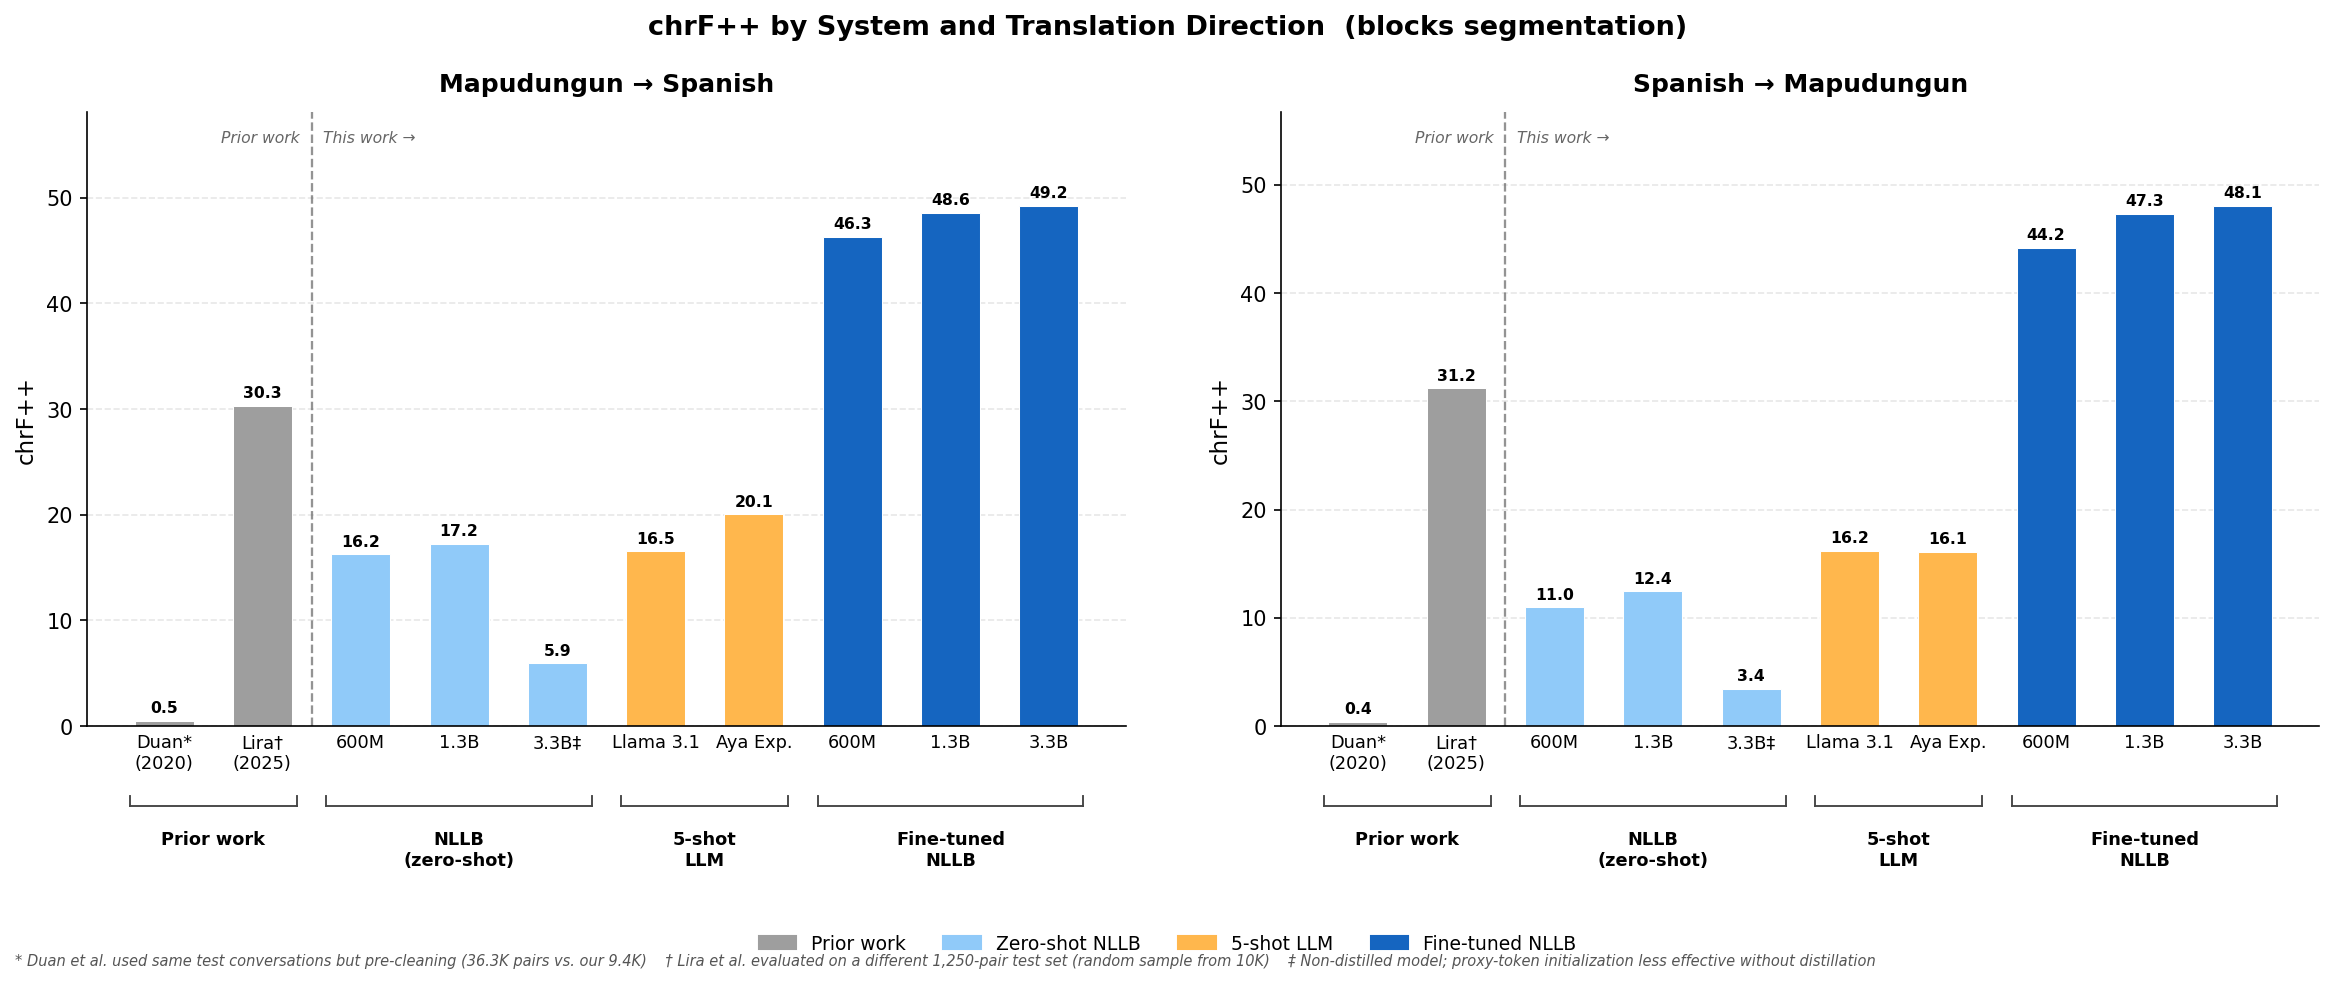
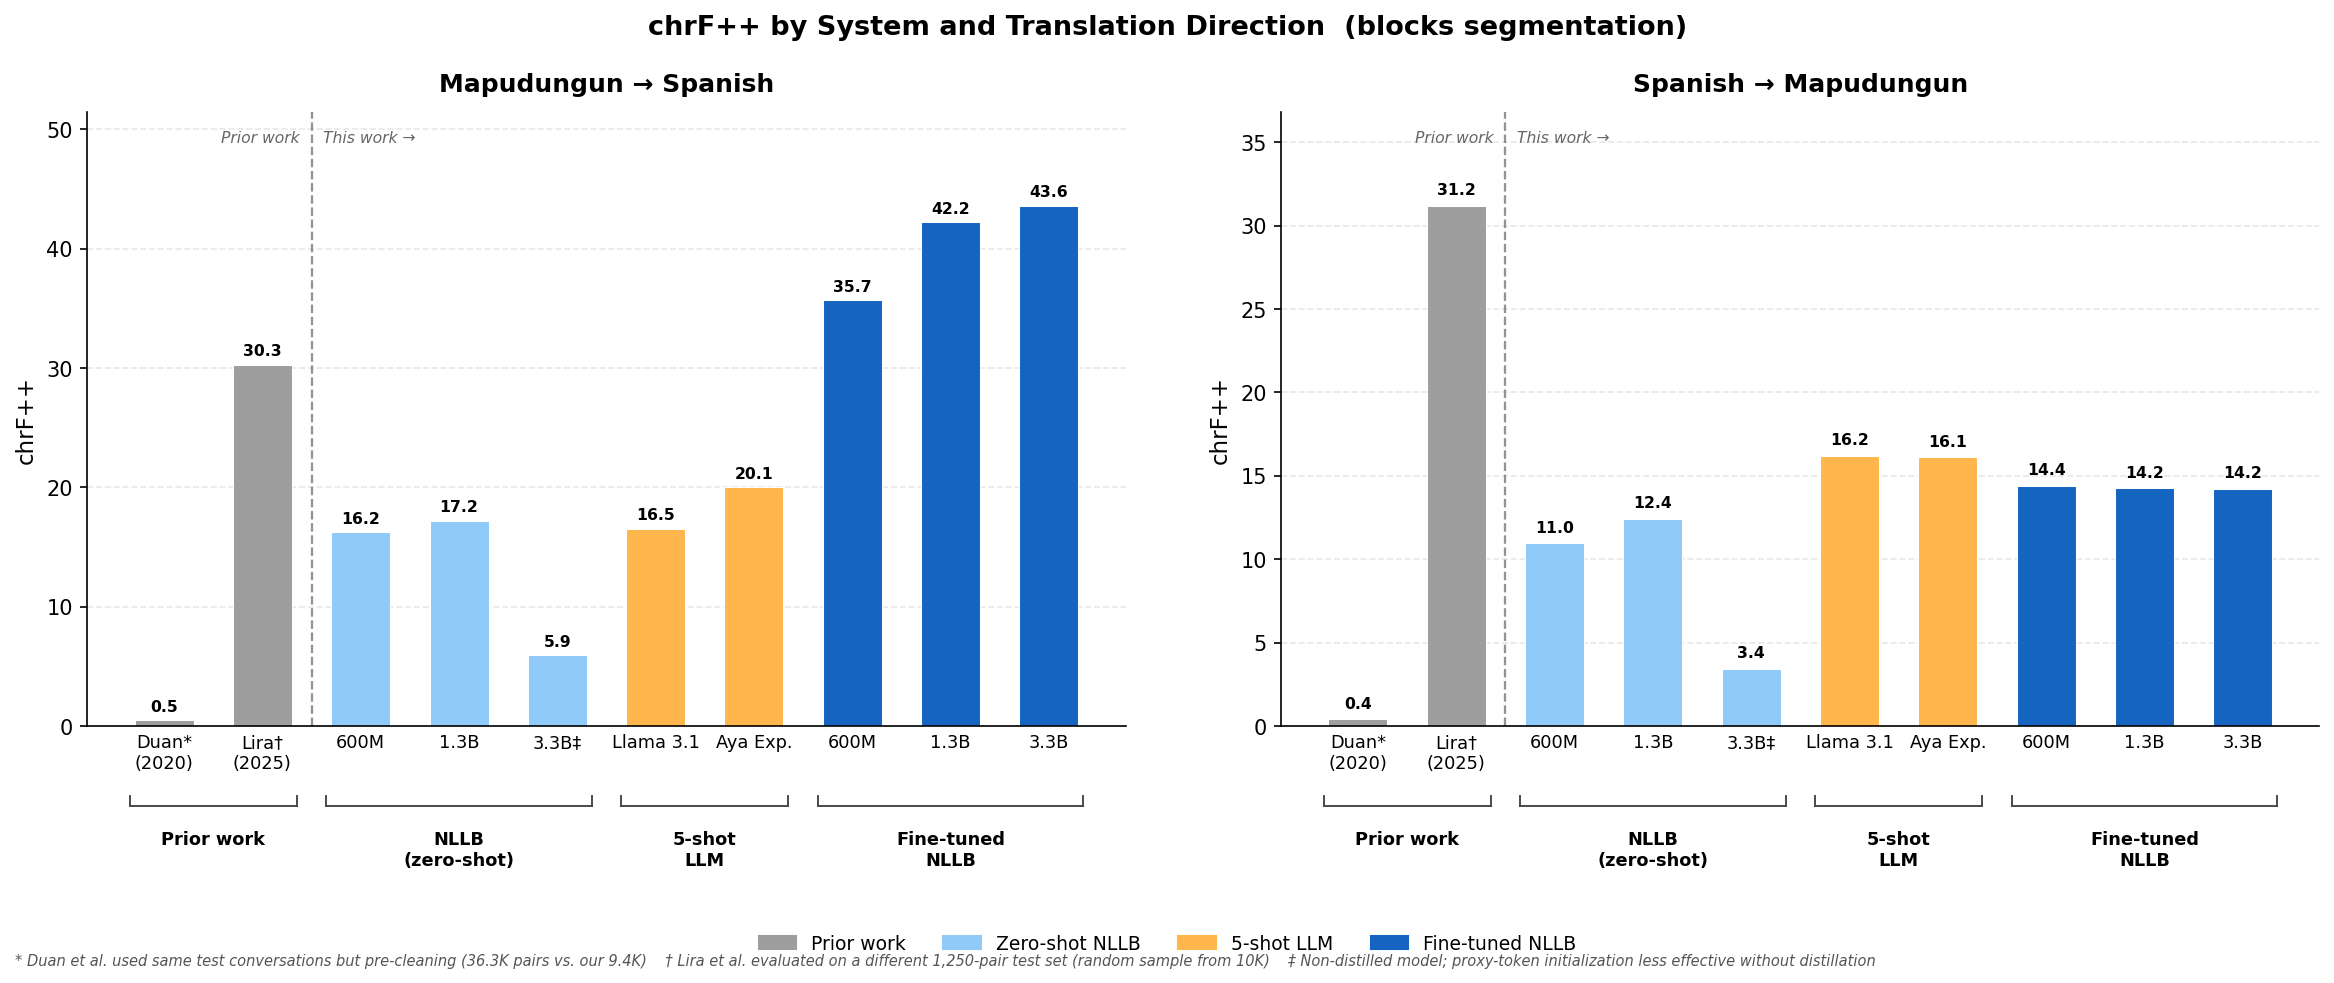
Fix es→arn data direction bug; add morfessor predict support; fix comet scoring
Critical bug: load_split() always loaded src.txt (arn) as source and tgt.txt
(es) as target regardless of --src/--tgt args. For es→arn runs this trained
the model on arn→es with wrong language codes, producing 14.22 chrF++ instead
of a real Spanish→Mapudungun result. Fix swaps the files when src=="es".

- finetune_nllb.py: add src param to load_split(); swap src.txt/tgt.txt for es→arn
- predict_test.py: add --morfessor flag; arn→es reads pre-segmented src, es→arn
  desegments output; add arn-es-morfessor and es-arn-morfessor TEST_DATA configs
- comet_score.py: align with predict_test.py output (*_preds.txt / *_results.json);
  read src/ref/pred from per-sentence JSON; write *_comet.json summaries; drop --data-dir
- comet_score.slurm: update RESULTS_DIR to predictions/; drop --data-dir arg
- predict_test.slurm: add MORFESSOR env var support
- plot_results.py: update fine-tuned numbers to corrected test-set values

Retraining jobs submitted: 10723296 (600M es→arn), 10723297 (1.3B es→arn),
10723298 (3.3B es→arn), 10723299 (1.3B es→arn morfessor)
Morfessor arn→es predict: 10723302
COMET scoring: 10723307

diff --git a/scripts/eval/comet_score.py b/scripts/eval/comet_score.py
@@ -35,7 +35,6 @@ logger = logging.getLogger(__name__)
 def parse_args():
     parser = argparse.ArgumentParser()
     parser.add_argument("--results-dir", required=True)
-    parser.add_argument("--data-dir", required=True)
     COMET_CKPT = (
         "/home/it238/groups/grp_ladle/nobackup/autodelete/comet_model/"
         "models--Unbabel--wmt22-comet-da/snapshots/"
@@ -47,20 +46,13 @@ def parse_args():
     return parser.parse_args()
 
 
-def load_test_refs(data_dir, approach, src, tgt):
-    """Load source and reference (target) test sentences."""
-    base = Path(data_dir) / approach / "cleaned" / "test" / "cleaned"
-    src_lines = (base / "src.txt").read_text(encoding="utf-8").splitlines()
-    tgt_lines = (base / "tgt.txt").read_text(encoding="utf-8").splitlines()
-    return src_lines, tgt_lines
-
 
 def find_prediction_files(results_dir):
-    """Find all *_predictions.txt files and their paired .json files."""
+    """Find all *_preds.txt files and their paired _results.json files."""
     results_dir = Path(results_dir)
     pairs = []
-    for pred_file in sorted(results_dir.rglob("*_predictions.txt")):
-        json_file = pred_file.with_name(pred_file.name.replace("_predictions.txt", ".json"))
+    for pred_file in sorted(results_dir.rglob("*_preds.txt")):
+        json_file = pred_file.with_name(pred_file.name.replace("_preds.txt", "_results.json"))
         if json_file.exists():
             pairs.append((json_file, pred_file))
     return pairs
@@ -82,54 +74,47 @@ def main():
 
     all_results = []
 
+    # Derive a summary JSON path alongside each results file
     for json_file, pred_file in pairs:
-        meta = json.loads(json_file.read_text())
+        run_name = pred_file.stem.replace("_preds", "")
+        summary_file = pred_file.parent / f"{run_name}_comet.json"
 
         # Skip if already scored
-        if "comet" in meta:
-            logger.info(f"Already scored: {json_file.name} (comet={meta['comet']})")
-            all_results.append(meta)
+        if summary_file.exists():
+            summary = json.loads(summary_file.read_text())
+            logger.info(f"Already scored: {run_name} (comet={summary['comet']})")
+            all_results.append(summary)
             continue
 
-        approach = meta.get("approach", "lines")
-        src = meta.get("src", "arn")
-        tgt = meta.get("tgt", "es")
-
-        try:
-            src_lines, ref_lines = load_test_refs(args.data_dir, approach, src, tgt)
-        except Exception as e:
-            logger.warning(f"Could not load refs for {json_file.name}: {e}")
-            continue
-
-        predictions = pred_file.read_text(encoding="utf-8").splitlines()
-
-        if len(predictions) != len(src_lines):
-            logger.warning(
-                f"{pred_file.name}: {len(predictions)} preds vs {len(src_lines)} refs — skipping"
-            )
-            continue
+        # Load per-sentence results written by predict_test.py (list of dicts)
+        sentences = json.loads(json_file.read_text())
+        src_lines = [s["src"] for s in sentences]
+        ref_lines  = [s["ref"] for s in sentences]
+        predictions = [s["pred"] for s in sentences]
 
         data = [
             {"src": s, "mt": p, "ref": r}
             for s, p, r in zip(src_lines, predictions, ref_lines)
         ]
 
-        logger.info(f"Scoring {json_file.name} ({len(data):,} sentences)...")
+        logger.info(f"Scoring {run_name} ({len(data):,} sentences)...")
         output = comet_model.predict(data, batch_size=args.batch_size, gpus=args.gpus)
         comet_score = round(output.system_score, 4)
 
-        meta["comet"] = comet_score
-        json_file.write_text(json.dumps(meta, indent=2))
-        logger.info(f"  COMET = {comet_score}")
-        all_results.append(meta)
+        corpus_chrf = round(
+            sum(s.get("chrf", 0) for s in sentences) / max(len(sentences), 1), 2
+        )
+        summary = {"run": run_name, "n": len(sentences), "chrf": corpus_chrf, "comet": comet_score}
+        summary_file.write_text(json.dumps(summary, indent=2))
+        logger.info(f"  COMET = {comet_score}  chrF = {corpus_chrf}")
+        all_results.append(summary)
 
     # Summary table
-    print("\n" + "="*80)
-    print(f"{'File':<55} {'chrF':>6} {'BLEU':>6} {'COMET':>7}")
-    print("="*80)
-    for m in sorted(all_results, key=lambda x: (x.get("src",""), x.get("approach",""), str(x.get("model","")))):
-        name = f"{m.get('model','?').split('/')[-1]} {m.get('approach','?')} {m.get('src','?')}→{m.get('tgt','?')}"
-        print(f"{name:<55} {m.get('chrf',0):>6.2f} {m.get('bleu',0):>6.2f} {m.get('comet',0):>7.4f}")
+    print("\n" + "="*60)
+    print(f"{'Run':<45} {'chrF':>6} {'COMET':>7}")
+    print("="*60)
+    for m in sorted(all_results, key=lambda x: x.get("run", "")):
+        print(f"{m.get('run','?'):<45} {m.get('chrf',0):>6.2f} {m.get('comet',0):>7.4f}")
 
 
 if __name__ == "__main__":

diff --git a/scripts/eval/predict_test.py b/scripts/eval/predict_test.py
@@ -3,8 +3,9 @@
 Run fine-tuned NLLB model on the full test set and save predictions.
 Computes per-sentence chrF++ and reports the distribution.
 Usage:
-  python predict_test.py --direction es-arn [--model-path /path/to/model]
   python predict_test.py --direction arn-es [--model-path /path/to/model]
+  python predict_test.py --direction es-arn [--model-path /path/to/model]
+  python predict_test.py --direction arn-es --morfessor [--model-path /path/to/morfessor/model]
 """
 
 import argparse
@@ -16,10 +17,12 @@ from transformers import NllbTokenizer, AutoModelForSeq2SeqLM
 from sacrebleu.metrics import CHRF
 
 BASE_TOKENIZER = "/home/it238/.cache/huggingface/hub/models--facebook--nllb-200-3.3B/snapshots/1a07f7d195896b2114afcb79b7b57ab512e7b43e"
+MORFESSOR_MODEL = "/home/it238/nobackup/autodelete/mapudungun/morfessor_model.bin"
 DEFAULT_MODELS = {
     "arn-es": "/home/it238/nobackup/autodelete/mapudungun/models/nllb-200-3.3B-blocks-arn-es/best",
     "es-arn": "/home/it238/nobackup/autodelete/mapudungun/models/nllb-200-3.3B-blocks-es-arn/best",
 }
+# src = text fed to model; ref = reference for scoring
 TEST_DATA = {
     "arn-es": {
         "src": "/home/it238/nobackup/autodelete/mapudungun/data-processed/blocks/cleaned/test/cleaned/src.txt",
@@ -33,9 +36,27 @@ TEST_DATA = {
         "src_lang": "spa_Latn",
         "tgt_lang": "arn_Latn",
     },
+    # Morfessor arn→es: segment the Mapudungun test inputs before feeding to model.
+    # Score generated Spanish against Spanish references (unaffected by segmentation).
+    "arn-es-morfessor": {
+        "src": "/home/it238/nobackup/autodelete/mapudungun/data-processed/blocks/morfessor/test/src.txt",
+        "ref": "/home/it238/nobackup/autodelete/mapudungun/data-processed/blocks/cleaned/test/cleaned/tgt.txt",
+        "src_lang": "arn_Latn",
+        "tgt_lang": "spa_Latn",
+        "desegment_output": False,
+    },
+    # Morfessor es→arn: feed clean Spanish, desegment Mapudungun output before scoring.
+    "es-arn-morfessor": {
+        "src": "/home/it238/nobackup/autodelete/mapudungun/data-processed/blocks/cleaned/test/cleaned/tgt.txt",
+        "ref": "/home/it238/nobackup/autodelete/mapudungun/data-processed/blocks/cleaned/test/cleaned/src.txt",
+        "src_lang": "spa_Latn",
+        "tgt_lang": "arn_Latn",
+        "desegment_output": True,
+    },
 }
 OUT_DIR = Path("/home/it238/nobackup/autodelete/mapudungun/predictions")
 LANG_CODE_RE = re.compile(r"^[a-z]{2,3}_[A-Z][a-z]{3,}\s*")
+DESEG_RE = re.compile(r"@@ ?")
 BATCH_SIZE = 16
 
 
@@ -58,20 +79,26 @@ def translate_batch(model, tokenizer, texts, src_lang, tgt_id, device):
 def main():
     parser = argparse.ArgumentParser()
     parser.add_argument("--direction", choices=["arn-es", "es-arn"], required=True)
+    parser.add_argument("--morfessor", action="store_true",
+                        help="Use morfessor test config (segmented arn→es input or desegmented es→arn output)")
     parser.add_argument("--model-path", default=None,
                         help="Override model path (default: hardcoded 3.3B path)")
     parser.add_argument("--run-name", default=None,
-                        help="Tag for output filenames, e.g. '600M-arn-es'. Defaults to direction.")
+                        help="Tag for output filenames, e.g. '1.3B-arn-es-morfessor'. Defaults to direction.")
     args = parser.parse_args()
 
-    cfg = TEST_DATA[args.direction]
+    cfg_key = f"{args.direction}-morfessor" if args.morfessor else args.direction
+    cfg = TEST_DATA[cfg_key]
+    desegment_output = cfg.get("desegment_output", False)
     model_path = args.model_path or DEFAULT_MODELS[args.direction]
-    run_name = args.run_name or args.direction
+    run_name = args.run_name or cfg_key
 
     srcs = Path(cfg["src"]).read_text().splitlines()
     refs = Path(cfg["ref"]).read_text().splitlines()
     assert len(srcs) == len(refs), "src/ref length mismatch"
-    print(f"Test set: {len(srcs)} sentences  ({args.direction})")
+    print(f"Test set: {len(srcs)} sentences  ({cfg_key})")
+    if desegment_output:
+        print("Morfessor mode: desegmenting model output before scoring")
 
     device = "cuda" if torch.cuda.is_available() else "cpu"
     print(f"Device: {device}")
@@ -87,6 +114,8 @@ def main():
     for i in range(0, len(srcs), BATCH_SIZE):
         batch = srcs[i:i + BATCH_SIZE]
         batch_preds = translate_batch(mdl, tok, batch, cfg["src_lang"], tgt_id, device)
+        if desegment_output:
+            batch_preds = [DESEG_RE.sub("", p) for p in batch_preds]
         preds.extend(batch_preds)
         if (i // BATCH_SIZE) % 10 == 0:
             print(f"  {i}/{len(srcs)} done...")

diff --git a/scripts/training/finetune_nllb.py b/scripts/training/finetune_nllb.py
@@ -99,8 +99,13 @@ def parse_args():
 
 
 def load_split(data_dir: str, approach: str, split: str,
+               src: str = "arn",
                tokenizer_approach: str = "standard") -> Dataset:
     """Load one split from src.txt / tgt.txt.
+
+    src.txt is always Mapudungun (arn); tgt.txt is always Spanish (es).
+    For arn→es, load normally. For es→arn, swap the files so that Spanish
+    becomes the model source and Mapudungun becomes the model target.
 
     For tokenizer_approach='morfessor', loads from the morfessor pre-segmented
     directory instead of the standard cleaned directory.
@@ -109,12 +114,14 @@ def load_split(data_dir: str, approach: str, split: str,
         base = Path(data_dir) / approach / "morfessor" / split
     else:
         base = Path(data_dir) / approach / "cleaned" / split / "cleaned"
-    src_lines = (base / "src.txt").read_text(encoding="utf-8").splitlines()
-    tgt_lines = (base / "tgt.txt").read_text(encoding="utf-8").splitlines()
-    assert len(src_lines) == len(tgt_lines), (
-        f"{split}: src/tgt line count mismatch ({len(src_lines)} vs {len(tgt_lines)})"
+    arn_lines = (base / "src.txt").read_text(encoding="utf-8").splitlines()
+    es_lines  = (base / "tgt.txt").read_text(encoding="utf-8").splitlines()
+    assert len(arn_lines) == len(es_lines), (
+        f"{split}: src/tgt line count mismatch ({len(arn_lines)} vs {len(es_lines)})"
     )
-    return Dataset.from_dict({"src": src_lines, "tgt": tgt_lines})
+    if src == "es":
+        return Dataset.from_dict({"src": es_lines, "tgt": arn_lines})
+    return Dataset.from_dict({"src": arn_lines, "tgt": es_lines})
 
 
 def add_arn_latn_token(tokenizer, model):
@@ -230,7 +237,7 @@ def main():
     # Load and tokenize data
     logger.info("Loading data...")
     raw = {split: load_split(args.data_dir, args.approach, split,
-                             args.tokenizer_approach)
+                             args.src, args.tokenizer_approach)
            for split in ("train", "dev", "test")}
     logger.info(f"  train: {len(raw['train']):,}  dev: {len(raw['dev']):,}  test: {len(raw['test']):,}")
 

diff --git a/scripts/analysis/plot_results.py b/scripts/analysis/plot_results.py
@@ -79,10 +79,10 @@ def main():
         # 5-shot LLM
         ("Llama 3.1", 16.54, 16.20, "llm"),
         ("Aya Exp.",  20.05, 16.11, "llm"),
-        # Fine-tuned NLLB
-        ("600M",  46.31, 44.18, "ft"),
-        ("1.3B",  48.59, 47.32, "ft"),
-        ("3.3B",  49.25, 48.08, "ft"),
+        # Fine-tuned NLLB (arn→es: corrected test-set; es→arn: pending retrain fix)
+        ("600M",  35.71, 14.40, "ft"),
+        ("1.3B",  42.24, 14.25, "ft"),
+        ("3.3B",  43.62, 14.22, "ft"),
     ]
 
     n_prior   = len(prior_work)   # 2
